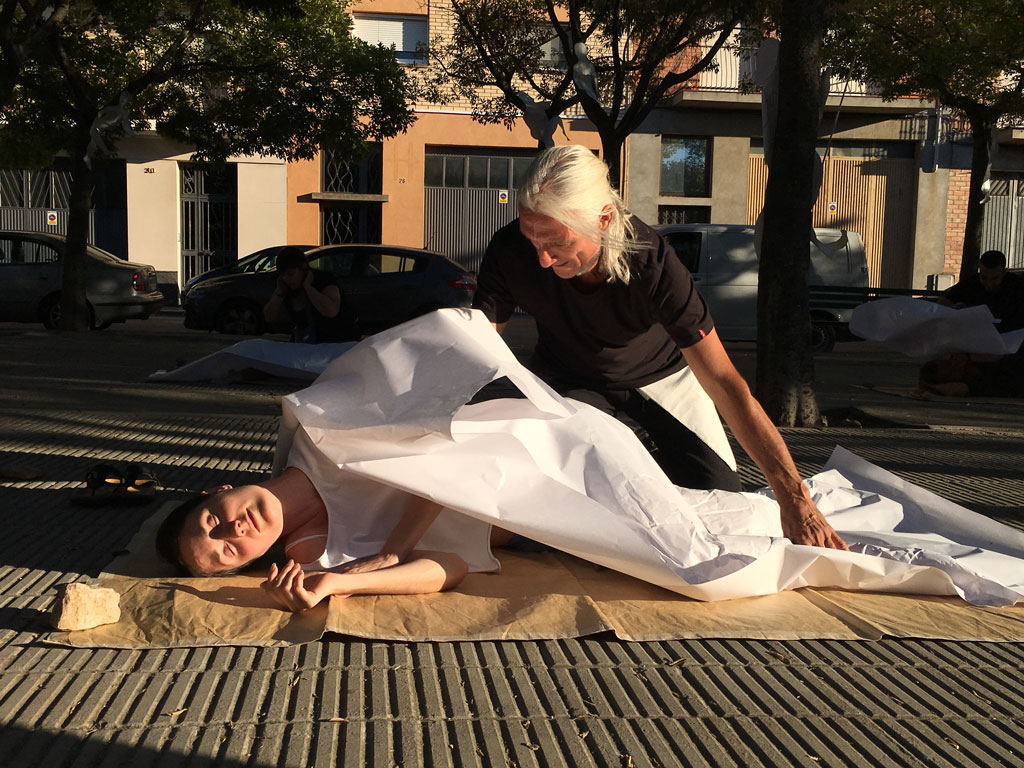
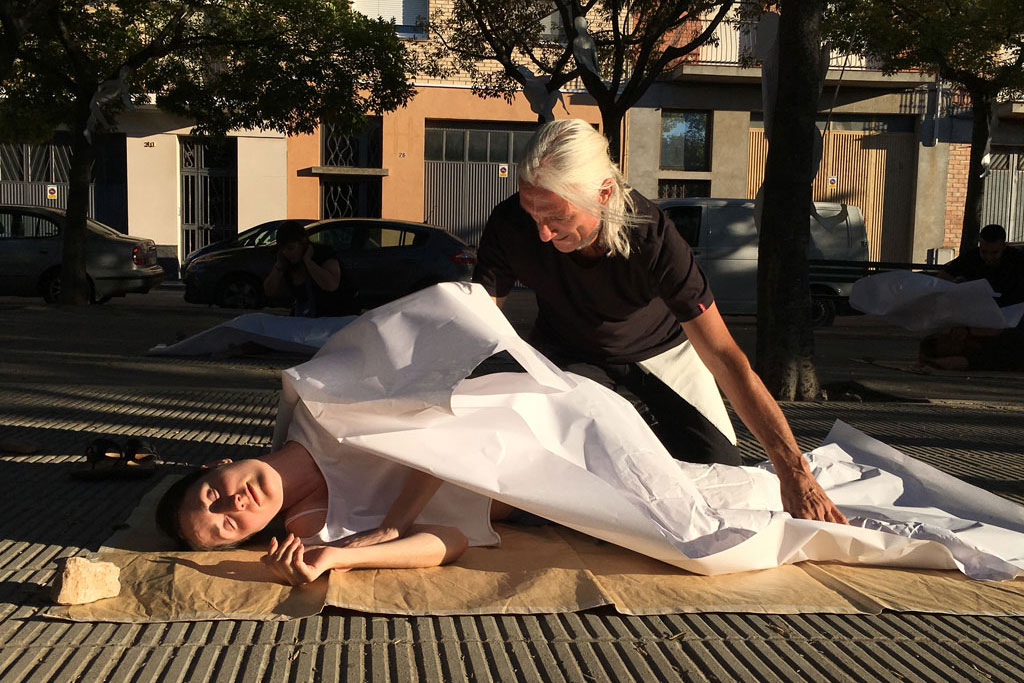
마사지사 대표 사진을 교체합니다

diff --git a/assets/css/main.scss b/assets/css/main.scss
@@ -138,3 +138,9 @@
 .icon-bar {
   background-color: #fff;
 }
+
+.work.masseur {
+  .jumbotron {
+    padding: 150px 0;
+  }
+}

diff --git a/_works/masseur.md b/_works/masseur.md
@@ -7,7 +7,7 @@ video:
   - Yxd-SmKKcNY
   - Xa57w42rQx4
   - AjhQUDPHTmY
-featured_image: IMG_8653.jpg
+featured_image: IMG_0003.jpg
 meta: |
   - 창작연도 : 2016
   - 형식구분 : 시민과 함께 만드는 공동체 퍼포먼스

diff --git a/_en_works/masseur.md b/_en_works/masseur.md
@@ -7,7 +7,7 @@ video:
   - Yxd-SmKKcNY
   - Xa57w42rQx4
   - AjhQUDPHTmY
-featured_image: IMG_8653.jpg
+featured_image: IMG_0003.jpg
 meta: |
   - Creation year: 2016
   - Type: Community performance
